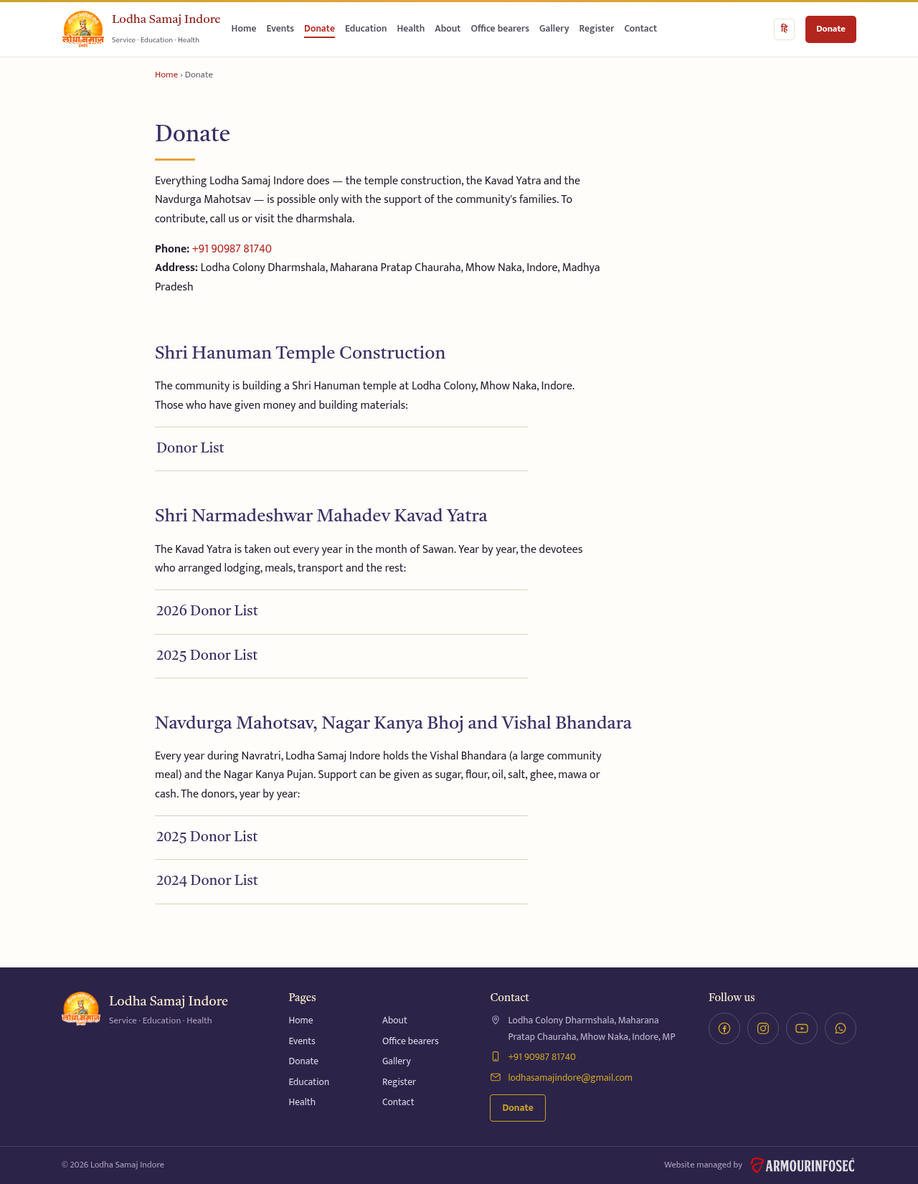
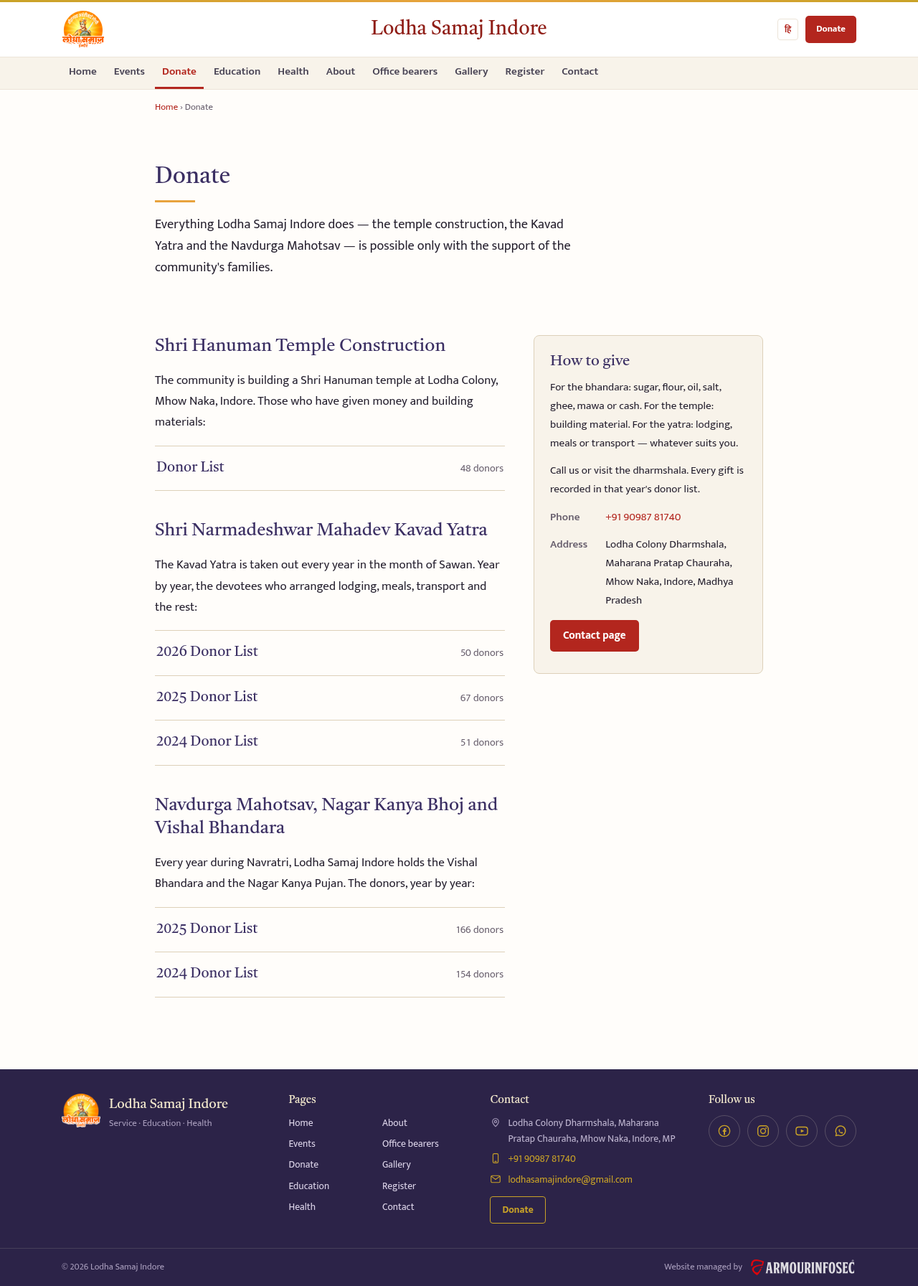
feat: दान पेज — सूचियाँ बाएँ, सहयोग का रास्ता दाएँ, हर सूची की गिनती
पेज तीन एक जैसी सीढ़ियाँ था: शीर्षक, एक पंक्ति, पतली सूची - और दाईं आधी
स्क्रीन ख़ाली। जो पढ़ने वाला देने आया था उसे फ़ोन नंबर तक पहुँचने के लिए तीन
रजिस्टर पार करने पड़ते थे, और वर्ष की कड़ियों में चुनने लायक कुछ नहीं था।

अब दो खाने:
- बाएँ तीनों आयोजन, हर पंक्ति के दाएँ सिरे पर "50 दानदाता"
- दाएँ "सहयोग कैसे करें" का कार्ड - क्या दिया जा सकता है, फ़ोन, धर्मशाला का
  पता, संपर्क पृष्ठ का बटन। सूचियाँ खिसकती हैं, कार्ड अपनी जगह रुका रहता है
- 900px से नीचे कार्ड सबसे ऊपर आ जाता है: पेज है ही इसी काम का

गिनती donors-index.json में लिखी जाती है, पेज पर गिनी नहीं जाती - छह अंक
दिखाने के लिए छह दानदाता फ़ाइलें (सैकड़ों KB) उतारना बेकार है। नया
tools/update_donor_index.py वह लिखता है (--check से सिर्फ़ जाँचता है), और
तीन नए टेस्ट पकड़ते हैं कि कोई सूची बदले और गिनती वहीं रह जाए।
536 प्रविष्टियाँ: 154 + 166 + 50 + 67 + 51 + 48.

jaanch: दान पेज की 30 ब्राउज़र जाँच (hi+en) - खंडों का क्रम, तीनों सूचियाँ,
हर कड़ी के आगे वही गिनती जो फ़ाइल में है, कार्ड का सूचियों के बग़ल में टिकना;
वही जाँच अभी लाइव पड़े पेज पर फेल होती है। 198 Python (3 नए), 77 JS,
0 टूटी लिंक, बीस पेजों का ढाँचा पास।

Claude-Session: https://claude.ai/code/session_01R1EfbCBszGbiBxkmZCC4Xr

diff --git a/hi/daan/index.html b/hi/daan/index.html
@@ -42,34 +42,51 @@
     <div class="wrap section">
       <div class="section-head"><h1>दान</h1></div>
       <div class="prose">
-        <p>लोधा समाज इंदौर के आयोजन — मंदिर निर्माण, कावड़ यात्रा और नवदुर्गा महोत्सव — समाज के परिवारों के सहयोग से ही संभव होते हैं। सहयोग करने के लिए फ़ोन पर संपर्क करें या धर्मशाला आएँ।</p>
-        <p><strong>फ़ोन:</strong> <a href="tel:+919098781740">+91 90987 81740</a><br>
-           <strong>पता:</strong> लोधा कॉलोनी धर्मशाला, महाराणा प्रताप चौराहा, महूनाका इंदौर, मध्यप्रदेश</p>
+        <p>लोधा समाज इंदौर के आयोजन — मंदिर निर्माण, कावड़ यात्रा और नवदुर्गा महोत्सव — समाज के परिवारों के सहयोग से ही संभव होते हैं।</p>
       </div>
     </div>
-    <div class="wrap section">
-      <div class="section-head"><h2>श्री हनुमान मंदिर निर्माण</h2></div>
-      <p>लोधा कॉलोनी, महू नाका, इंदौर में श्री हनुमान मंदिर का निर्माण समाज के सहयोग से हो रहा है।
-         सहयोग राशि और निर्माण सामग्री देने वालों की सूची:</p>
-      <!-- निर्माण एक ही बार का है, इसलिए यहाँ साल नहीं - पर दिखता बाक़ी
-           सूचियों जैसा ही है, और बिना JavaScript भी चलता है। -->
-      <ul class="year-list">
-        <li class="year-item"><a href="/hi/daan/hanuman-mandir/">दानदाता सूची</a></li>
-      </ul>
-    </div>
-    <div class="wrap section">
-      <div class="section-head"><h2>श्री नर्मदेश्वर महादेव भव्य कावड़ यात्रा</h2></div>
-      <p>सावन माह में हर वर्ष कावड़ यात्रा निकलती है। धर्मशाला, भोजन, वाहन एवं अन्य व्यवस्थाओं से
-         सहयोग करने वाले भक्तों की वर्षवार सूची:</p>
-      <ul class="year-list" id="kavad-years"></ul>
-      <noscript><p>सूची देखने के लिए JavaScript आवश्यक है। <a href="/hi/daan/kavad-yatra-2026/">2026 की सूची</a> यहाँ देखें।</p></noscript>
-    </div>
-    <div class="wrap section">
-      <div class="section-head"><h2>नवदुर्गा महोत्सव, नगर कन्या भोज एवं विशाल भंडारा</h2></div>
-      <p>हर वर्ष नवरात्र में लोधा समाज इंदौर विशाल भंडारा और नगर कन्या पूजन का आयोजन करता है। भंडारे के लिए
-         शक्कर, आटा, तेल, नमक, घी, मावा या नगद राशि के रूप में सहयोग किया जा सकता है। दानदाताओं की वर्षवार सूची:</p>
-      <ul class="year-list" id="archive"></ul>
-      <noscript><p>सूची देखने के लिए JavaScript आवश्यक है। <a href="/hi/daan/navdurga-mahotsav-2025/">2025</a> और <a href="/hi/daan/navdurga-mahotsav-2024/">2024</a> की सूची यहाँ देखें।</p></noscript>
+    <!-- The lists on the left, the way to give on the right: a reader who came
+         to give should not have to scroll past three registers to find the
+         phone number. The card stays in view while the lists scroll. -->
+    <div class="wrap give-grid">
+      <div class="give-main">
+        <section class="give-part">
+          <div class="section-head"><h2>श्री हनुमान मंदिर निर्माण</h2></div>
+          <p>लोधा कॉलोनी, महू नाका, इंदौर में श्री हनुमान मंदिर का निर्माण समाज के सहयोग से हो रहा है।
+           सहयोग राशि और निर्माण सामग्री देने वालों की सूची:</p>
+          <ul class="year-list" id="temple-list">
+            <li class="year-item"><a href="/hi/daan/hanuman-mandir/">दानदाता सूची</a></li>
+          </ul>
+        </section>
+        <section class="give-part">
+          <div class="section-head"><h2>श्री नर्मदेश्वर महादेव भव्य कावड़ यात्रा</h2></div>
+          <p>सावन माह में हर वर्ष कावड़ यात्रा निकलती है। धर्मशाला, भोजन, वाहन एवं अन्य व्यवस्थाओं से
+           सहयोग करने वाले भक्तों की वर्षवार सूची:</p>
+          <ul class="year-list" id="kavad-years"></ul>
+          <noscript><p>सूची देखने के लिए JavaScript आवश्यक है। <a href="/hi/daan/kavad-yatra-2026/">2026</a>,
+             <a href="/hi/daan/kavad-yatra-2025/">2025</a> और
+             <a href="/hi/daan/kavad-yatra-2024/">2024</a> की सूची यहाँ देखें।</p></noscript>
+        </section>
+        <section class="give-part">
+          <div class="section-head"><h2>नवदुर्गा महोत्सव, नगर कन्या भोज एवं विशाल भंडारा</h2></div>
+          <p>हर वर्ष नवरात्र में लोधा समाज इंदौर विशाल भंडारा और नगर कन्या पूजन का आयोजन करता है।
+           दानदाताओं की वर्षवार सूची:</p>
+          <ul class="year-list" id="archive"></ul>
+          <noscript><p>सूची देखने के लिए JavaScript आवश्यक है। <a href="/hi/daan/navdurga-mahotsav-2025/">2025</a>
+             और <a href="/hi/daan/navdurga-mahotsav-2024/">2024</a>
+             की सूची यहाँ देखें।</p></noscript>
+        </section>
+      </div>
+      <aside class="give-card" aria-labelledby="how-to-give">
+        <h2 id="how-to-give">सहयोग कैसे करें</h2>
+        <p>भंडारे के लिए शक्कर, आटा, तेल, नमक, घी, मावा या नगद राशि; मंदिर के लिए निर्माण सामग्री; यात्रा के लिए धर्मशाला, भोजन या वाहन की व्यवस्था — जो सहज हो।</p>
+        <p>फ़ोन पर संपर्क करें या धर्मशाला आएँ। हर सहयोग उसी वर्ष की दानदाता सूची में दर्ज होता है।</p>
+        <p class="give-line"><strong>फ़ोन</strong>
+           <a href="tel:+919098781740">+91 90987 81740</a></p>
+        <p class="give-line"><strong>पता</strong>
+           <span>लोधा कॉलोनी धर्मशाला, महाराणा प्रताप चौराहा, महूनाका इंदौर, मध्यप्रदेश</span></p>
+        <p><a class="btn" href="/hi/sampark/">संपर्क पृष्ठ</a></p>
+      </aside>
     </div>
   </main>
   <footer id="site-footer"></footer>
@@ -78,26 +95,31 @@
     const lang = 'hi';
     const archive = document.getElementById('archive');
     const kavad = document.getElementById('kavad-years');
-    /** One linked <li> — the only shape either year list needs. */
-    const item = (href, text) => {
+    const temple = document.getElementById('temple-list');
+    /** One linked row: the list's name, and how many gave to it. */
+    const item = (href, text, n) => {
       const li = document.createElement('li');
       li.className = 'year-item';
       const a = document.createElement('a');
       a.setAttribute('href', href);
-      a.textContent = text;
+      a.append(text);
+      if (n) {
+        const count = document.createElement('span');
+        count.className = 'n';
+        count.textContent = `${n} दानदाता`;
+        a.append(count);
+      }
       li.append(a);
       return li;
     };
     try {
       const response = await fetch('/data/donors-index.json', { cache: 'no-cache' });
       if (!response.ok) throw new Error(`HTTP ${response.status}`);
-      const { years, lists = [] } = await response.json();
+      const { years, lists = [], counts = {} } = await response.json();
       // Hand-edited file: keep only integer years, so nothing needs escaping.
       const valid = years.map(Number).filter(Number.isInteger).sort((a, b) => b - a);
       for (const y of valid) {
-        // A list of years, not a donor row: the link text already carries the
-        // year, so the separate badge only said it twice.
-        archive.append(item(`/${lang}/daan/navdurga-mahotsav-${y}/`, `${y} दानदाता सूची`));
+        archive.append(item(`/${lang}/daan/navdurga-mahotsav-${y}/`, `${y} दानदाता सूची`, counts[y]));
       }
       // The yatra comes round every year and each year is its own named list
       // (kavad-yatra-2027, …), so this section builds itself from the index.
@@ -106,7 +128,16 @@
         .filter(Boolean)
         .sort((a, b) => Number(b[1]) - Number(a[1]));
       for (const [slug, year] of yatras) {
-        kavad.append(item(`/${lang}/daan/${slug}/`, `${year} दानदाता सूची`));
+        kavad.append(item(`/${lang}/daan/${slug}/`, `${year} दानदाता सूची`, counts[slug]));
+      }
+      // The temple list is in the markup, so that it is there without
+      // JavaScript; only its count comes from here.
+      if (counts['hanuman-mandir']) {
+        const link = temple.querySelector('a');
+        const count = document.createElement('span');
+        count.className = 'n';
+        count.textContent = `${counts['hanuman-mandir']} दानदाता`;
+        link.append(count);
       }
     } catch (error) {
       console.error(error);

diff --git a/en/daan/index.html b/en/daan/index.html
@@ -43,35 +43,51 @@
     <div class="wrap section">
       <div class="section-head"><h1>Donate</h1></div>
       <div class="prose">
-        <p>Everything Lodha Samaj Indore does — the temple construction, the Kavad Yatra and the Navdurga Mahotsav — is possible only with the support of the community's families. To contribute, call us or visit the dharmshala.</p>
-        <p><strong>Phone:</strong> <a href="tel:+919098781740">+91 90987 81740</a><br>
-           <strong>Address:</strong> Lodha Colony Dharmshala, Maharana Pratap Chauraha, Mhow Naka, Indore, Madhya Pradesh</p>
+        <p>Everything Lodha Samaj Indore does — the temple construction, the Kavad Yatra and the Navdurga Mahotsav — is possible only with the support of the community's families.</p>
       </div>
     </div>
-    <div class="wrap section">
-      <div class="section-head"><h2>Shri Hanuman Temple Construction</h2></div>
-      <p>The community is building a Shri Hanuman temple at Lodha Colony, Mhow Naka, Indore.
-         Those who have given money and building materials:</p>
-      <!-- The construction is a one-off, so no year here - but it reads like
-           the other lists, and it works without JavaScript. -->
-      <ul class="year-list">
-        <li class="year-item"><a href="/en/daan/hanuman-mandir/">Donor List</a></li>
-      </ul>
-    </div>
-    <div class="wrap section">
-      <div class="section-head"><h2>Shri Narmadeshwar Mahadev Kavad Yatra</h2></div>
-      <p>The Kavad Yatra is taken out every year in the month of Sawan. Year by year, the devotees who
-         arranged lodging, meals, transport and the rest:</p>
-      <ul class="year-list" id="kavad-years"></ul>
-      <noscript><p>JavaScript is required to see the list. See the <a href="/en/daan/kavad-yatra-2026/">2026 list</a> here.</p></noscript>
-    </div>
-    <div class="wrap section">
-      <div class="section-head"><h2>Navdurga Mahotsav, Nagar Kanya Bhoj and Vishal Bhandara</h2></div>
-      <p>Every year during Navratri, Lodha Samaj Indore holds the Vishal Bhandara (a large community meal)
-         and the Nagar Kanya Pujan. Support can be given as sugar, flour, oil, salt, ghee, mawa or cash.
-         The donors, year by year:</p>
-      <ul class="year-list" id="archive"></ul>
-      <noscript><p>JavaScript is required to see the list. See the <a href="/en/daan/navdurga-mahotsav-2025/">2025</a> and <a href="/en/daan/navdurga-mahotsav-2024/">2024</a> lists here.</p></noscript>
+    <!-- The lists on the left, the way to give on the right: a reader who came
+         to give should not have to scroll past three registers to find the
+         phone number. The card stays in view while the lists scroll. -->
+    <div class="wrap give-grid">
+      <div class="give-main">
+        <section class="give-part">
+          <div class="section-head"><h2>Shri Hanuman Temple Construction</h2></div>
+          <p>The community is building a Shri Hanuman temple at Lodha Colony, Mhow Naka, Indore.
+           Those who have given money and building materials:</p>
+          <ul class="year-list" id="temple-list">
+            <li class="year-item"><a href="/en/daan/hanuman-mandir/">Donor List</a></li>
+          </ul>
+        </section>
+        <section class="give-part">
+          <div class="section-head"><h2>Shri Narmadeshwar Mahadev Kavad Yatra</h2></div>
+          <p>The Kavad Yatra is taken out every year in the month of Sawan. Year by year, the devotees
+           who arranged lodging, meals, transport and the rest:</p>
+          <ul class="year-list" id="kavad-years"></ul>
+          <noscript><p>JavaScript is required to see the list. See the <a href="/en/daan/kavad-yatra-2026/">2026</a>,
+             <a href="/en/daan/kavad-yatra-2025/">2025</a> and
+             <a href="/en/daan/kavad-yatra-2024/">2024</a> lists here.</p></noscript>
+        </section>
+        <section class="give-part">
+          <div class="section-head"><h2>Navdurga Mahotsav, Nagar Kanya Bhoj and Vishal Bhandara</h2></div>
+          <p>Every year during Navratri, Lodha Samaj Indore holds the Vishal Bhandara and the
+           Nagar Kanya Pujan. The donors, year by year:</p>
+          <ul class="year-list" id="archive"></ul>
+          <noscript><p>JavaScript is required to see the list. See the <a href="/en/daan/navdurga-mahotsav-2025/">2025</a>
+             and <a href="/en/daan/navdurga-mahotsav-2024/">2024</a>
+             lists here.</p></noscript>
+        </section>
+      </div>
+      <aside class="give-card" aria-labelledby="how-to-give">
+        <h2 id="how-to-give">How to give</h2>
+        <p>For the bhandara: sugar, flour, oil, salt, ghee, mawa or cash. For the temple: building material. For the yatra: lodging, meals or transport — whatever suits you.</p>
+        <p>Call us or visit the dharmshala. Every gift is recorded in that year's donor list.</p>
+        <p class="give-line"><strong>Phone</strong>
+           <a href="tel:+919098781740">+91 90987 81740</a></p>
+        <p class="give-line"><strong>Address</strong>
+           <span>Lodha Colony Dharmshala, Maharana Pratap Chauraha, Mhow Naka, Indore, Madhya Pradesh</span></p>
+        <p><a class="btn" href="/en/sampark/">Contact page</a></p>
+      </aside>
     </div>
   </main>
   <footer id="site-footer"></footer>
@@ -80,26 +96,31 @@
     const lang = 'en';
     const archive = document.getElementById('archive');
     const kavad = document.getElementById('kavad-years');
-    /** One linked <li> — the only shape either year list needs. */
-    const item = (href, text) => {
+    const temple = document.getElementById('temple-list');
+    /** One linked row: the list's name, and how many gave to it. */
+    const item = (href, text, n) => {
       const li = document.createElement('li');
       li.className = 'year-item';
       const a = document.createElement('a');
       a.setAttribute('href', href);
-      a.textContent = text;
+      a.append(text);
+      if (n) {
+        const count = document.createElement('span');
+        count.className = 'n';
+        count.textContent = `${n} donors`;
+        a.append(count);
+      }
       li.append(a);
       return li;
     };
     try {
       const response = await fetch('/data/donors-index.json', { cache: 'no-cache' });
       if (!response.ok) throw new Error(`HTTP ${response.status}`);
-      const { years, lists = [] } = await response.json();
+      const { years, lists = [], counts = {} } = await response.json();
       // Hand-edited file: keep only integer years, so nothing needs escaping.
       const valid = years.map(Number).filter(Number.isInteger).sort((a, b) => b - a);
       for (const y of valid) {
-        // A list of years, not a donor row: the link text already carries the
-        // year, so the separate badge only said it twice.
-        archive.append(item(`/${lang}/daan/navdurga-mahotsav-${y}/`, `${y} Donor List`));
+        archive.append(item(`/${lang}/daan/navdurga-mahotsav-${y}/`, `${y} Donor List`, counts[y]));
       }
       // The yatra comes round every year and each year is its own named list
       // (kavad-yatra-2027, …), so this section builds itself from the index.
@@ -108,7 +129,16 @@
         .filter(Boolean)
         .sort((a, b) => Number(b[1]) - Number(a[1]));
       for (const [slug, year] of yatras) {
-        kavad.append(item(`/${lang}/daan/${slug}/`, `${year} Donor List`));
+        kavad.append(item(`/${lang}/daan/${slug}/`, `${year} Donor List`, counts[slug]));
+      }
+      // The temple list is in the markup, so that it is there without
+      // JavaScript; only its count comes from here.
+      if (counts['hanuman-mandir']) {
+        const link = temple.querySelector('a');
+        const count = document.createElement('span');
+        count.className = 'n';
+        count.textContent = `${counts['hanuman-mandir']} donors`;
+        link.append(count);
       }
     } catch (error) {
       console.error(error);

diff --git a/assets/css/site.css b/assets/css/site.css
@@ -690,12 +690,36 @@ body.lb-open { overflow: hidden; }
                    object-fit: cover; object-position: center 30%;
                    border-radius: var(--r); background: var(--warm); }
 
+/* ---- the दान page: lists on the left, the way to give on the right ---- */
+.give-grid { display: grid; grid-template-columns: minmax(0, 1fr) 320px; gap: 40px;
+             padding-block: 8px 52px; align-items: start; }
+.give-part + .give-part { margin-top: 40px; }
+.give-part > p { max-width: 62ch; }
+/* The card keeps its place while the lists scroll past it. */
+.give-card { position: sticky; top: 72px; padding: 22px 22px 18px;
+             background: var(--paper); border: 1px solid var(--rule); border-radius: var(--r); }
+.give-card h2 { margin: 0 0 10px; font-size: 1.3rem; color: var(--ind); }
+.give-card p { margin: 0 0 12px; font-size: 0.95rem; }
+.give-line { display: grid; grid-template-columns: 4.2rem 1fr; gap: 4px 10px; }
+.give-line strong { color: var(--mute); font-weight: 600; }
+.give-card .btn { margin-top: 2px; }
+@media (max-width: 900px) {
+  .give-grid { grid-template-columns: 1fr; gap: 28px; }
+  /* Stacked, the card belongs above the registers: it is what the page is for. */
+  .give-card { position: static; order: -1; }
+}
+
 /* ---- /daan/ archive: the years on offer ---- */
 .year-list { list-style: none; margin: 0; padding: 0; max-width: 520px;
              border-top: 1px solid var(--rule); }
 .year-item { border-bottom: 1px solid var(--rule); }
-.year-item a { display: block; padding: 14px 2px; font-family: var(--head);
-               font-size: 1.22rem; color: var(--ind); text-decoration: none; }
+.year-item a { display: flex; align-items: baseline; gap: 12px; padding: 14px 2px;
+               font-family: var(--head); font-size: 1.22rem; color: var(--ind);
+               text-decoration: none; }
+/* How many gave to that list - the reason to pick one row over another. */
+.year-item .n { margin-left: auto; font-family: var(--body); font-size: 0.9rem;
+                color: var(--mute); font-variant-numeric: tabular-nums; }
+.year-item a:hover .n, .year-item a:focus-visible .n { color: var(--red); }
 /* Indigo at rest, so this one turns the other way: red marks the year the
    reader is about to open. */
 .year-item a:hover, .year-item a:focus-visible { color: var(--red); }

diff --git a/tools/update_donor_index.py b/tools/update_donor_index.py
@@ -1,0 +1,51 @@
+#!/usr/bin/env python3
+"""Write the donor counts into data/donors-index.json.
+
+The दान page prints "2026 · 50 दानदाता" beside each list. Counting there would
+mean fetching all six donor files (hundreds of kilobytes) to show six numbers,
+so the count is written here instead, next to the names the page already
+reads. Run after adding or editing a list; tools/test_donor_index_counts.py
+fails if the file and the count disagree.
+
+Usage: python3 tools/update_donor_index.py [--check]
+"""
+import json
+import sys
+from pathlib import Path
+
+ROOT = Path(__file__).resolve().parent.parent
+DATA = ROOT / "data"
+
+
+def counts(index: dict) -> dict[str, int]:
+    """{list name -> donors in its file}, in the index's own order."""
+    out = {}
+    for year in index["years"]:
+        out[str(year)] = len(json.loads((DATA / f"donors-{year}.json")
+                                        .read_text(encoding="utf-8"))["donors"])
+    for slug in index["lists"]:
+        out[slug] = len(json.loads((DATA / f"{slug}.json")
+                                   .read_text(encoding="utf-8"))["donors"])
+    return out
+
+
+def main(argv: list[str]) -> int:
+    path = DATA / "donors-index.json"
+    index = json.loads(path.read_text(encoding="utf-8"))
+    fresh = counts(index)
+    if index.get("counts") == fresh:
+        print(f"donors-index.json: counts already current ({sum(fresh.values())} entries)")
+        return 0
+    if "--check" in argv:
+        print(f"donors-index.json: counts are stale\n  file says {index.get('counts')}\n"
+              f"  lists hold {fresh}")
+        return 1
+    index["counts"] = fresh
+    path.write_text(json.dumps(index, ensure_ascii=False, indent=2) + "\n", encoding="utf-8")
+    print(f"donors-index.json: counts written ({sum(fresh.values())} entries across "
+          f"{len(fresh)} list(s))")
+    return 0
+
+
+if __name__ == "__main__":
+    sys.exit(main(sys.argv[1:]))

diff --git a/tools/test_donor_index_counts.py b/tools/test_donor_index_counts.py
@@ -1,0 +1,34 @@
+"""Drift guard: data/donors-index.json carries how many donors each list has,
+so the दान page can print the number without fetching six donor files. The
+counts are written by tools/update_donor_index.py; this fails when a list is
+edited and the tool is not re-run."""
+import json
+from pathlib import Path
+
+ROOT = Path(__file__).resolve().parent.parent
+DATA = ROOT / "data"
+INDEX = json.loads((DATA / "donors-index.json").read_text(encoding="utf-8"))
+
+
+def donors_in(path: Path) -> int:
+    return len(json.loads(path.read_text(encoding="utf-8"))["donors"])
+
+
+def test_every_list_in_the_index_has_a_count():
+    want = {str(year) for year in INDEX["years"]} | set(INDEX["lists"])
+    assert set(INDEX.get("counts", {})) == want, (
+        f"counts cover {sorted(INDEX.get('counts', {}))}, the index lists {sorted(want)}")
+
+
+def test_each_count_is_what_the_file_holds():
+    for year in INDEX["years"]:
+        assert INDEX["counts"][str(year)] == donors_in(DATA / f"donors-{year}.json"), year
+    for slug in INDEX["lists"]:
+        assert INDEX["counts"][slug] == donors_in(DATA / f"{slug}.json"), slug
+
+
+def test_the_counts_add_up_to_every_entry_on_the_site():
+    total = sum(INDEX["counts"].values())
+    on_disk = sum(donors_in(DATA / f"donors-{y}.json") for y in INDEX["years"]) \
+        + sum(donors_in(DATA / f"{s}.json") for s in INDEX["lists"])
+    assert total == on_disk
